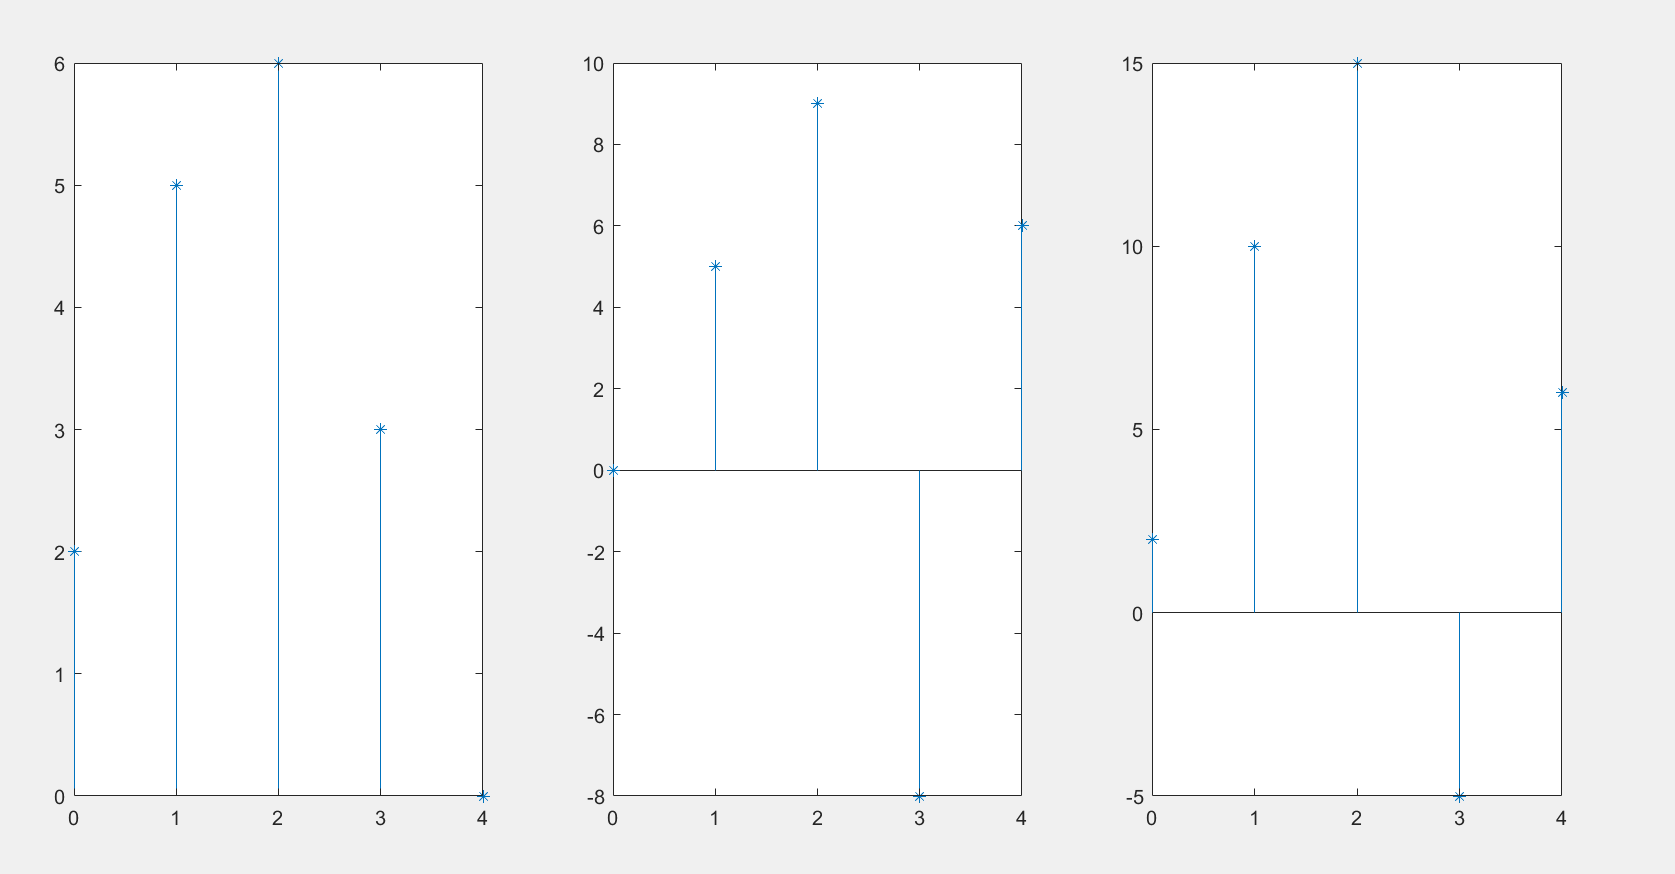
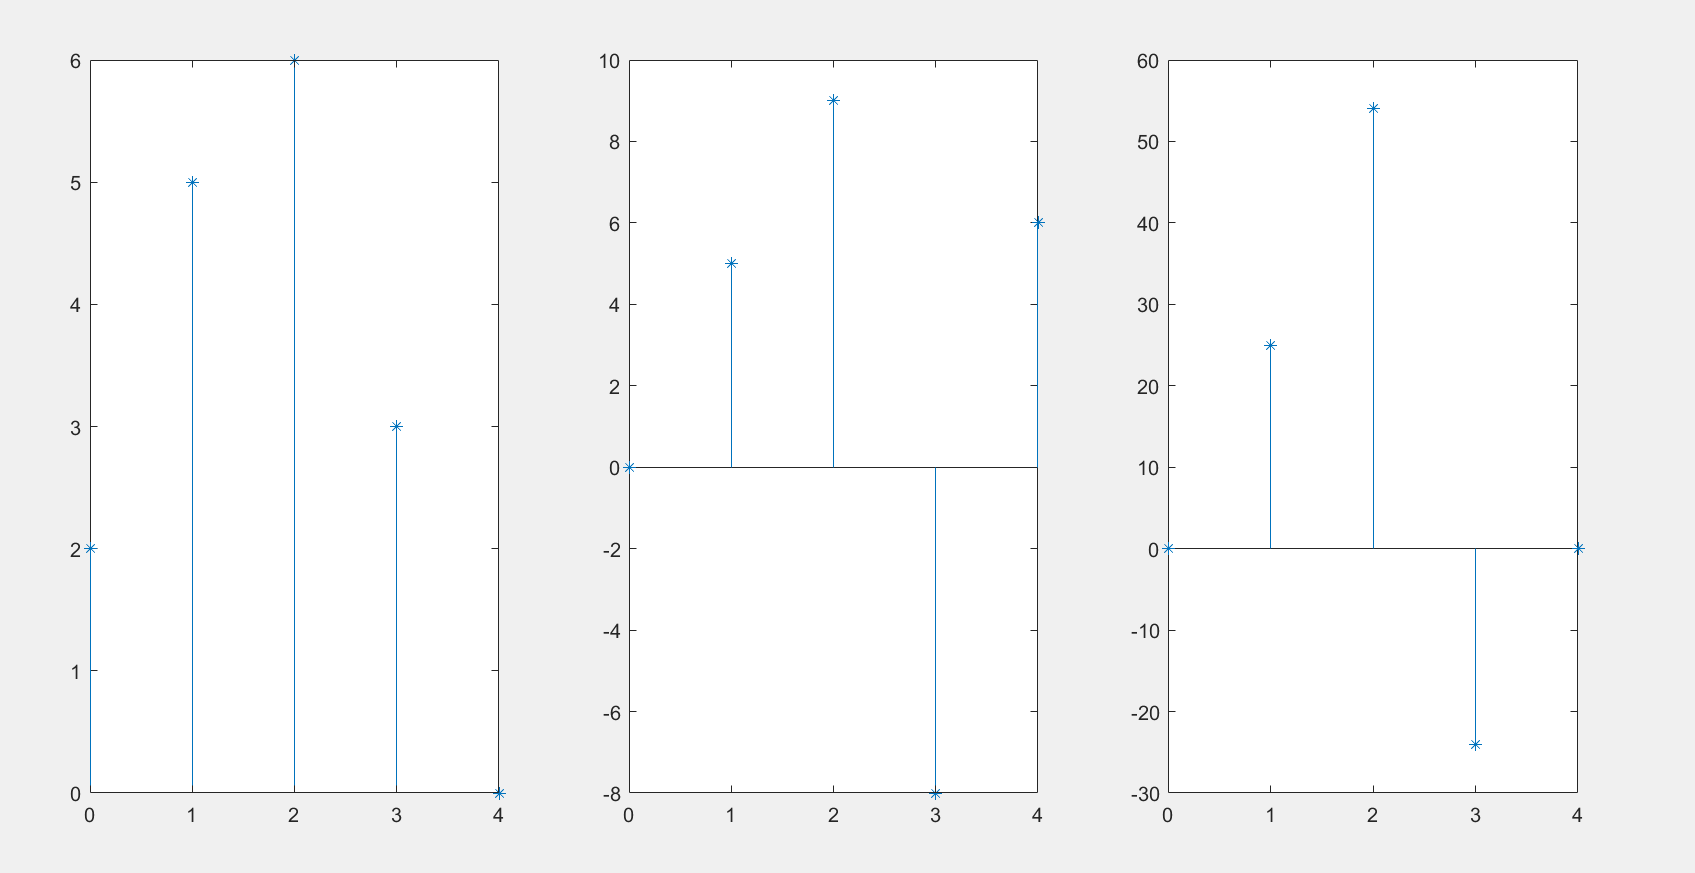
Added proper multiplictation Code

diff --git a/EXP2/Multiplictation/multiplication.m b/EXP2/Multiplictation/multiplication.m
@@ -1,13 +1,24 @@
-function add(x1, n1, x2,n2)
-    m1=(min(min(n1),min(n2)));
-    m2=(max(max(n1),max(n2)));
-    t= (m1:m2);
-    y1= [zeros(1,length(t))];
-    y2= [zeros(1,length(t))];
-    y1 (find((t>=min(n1)&t<=max(n1))==1))=x1;
-    y2(find((t>=min(n2)&t<=max(n2))==1))=x2;
-    y3=y1+y2;
-    subplot(1,3,1),stem(t,y1,'*');
-    subplot(1,3,2),stem(t,y2,'*');
-    subplot(1,3,3),stem(t,y3,'*');
+function multiplication(x1, n1, x2, n2)
+  
+    m1 = min(min(n1), min(n2));
+    m2 = max(max(n1), max(n2));
+    
+    
+    t = m1:m2;
+    
+
+    y1 = zeros(1, length(t));
+    y2 = zeros(1, length(t));
+    
+    
+    y1(ismember(t, n1)) = x1;
+    y2(ismember(t, n2)) = x2;
+    
+    
+    y3 = y1 .* y2;
+    
+   
+    subplot(1, 3, 1), stem(t, y1, '*');
+    subplot(1, 3, 2), stem(t, y2, '*');
+    subplot(1, 3, 3), stem(t, y3, '*');
 end

diff --git a/EXP2/Multiplictation/README.md b/EXP2/Multiplictation/README.md
@@ -4,12 +4,12 @@
 ## Command Window
 
 ```bash
-x1=[2 5 6 3];
-n1= [0 1 2 3];
-x2= [5 9 -8 6];
-n2= [1 2 3 4];
-add(x1,n1,x2,n2)
+x1 = [2 5 6 3];
+n1 = [0 1 2 3];
+x2 = [5 9 -8 6];
+n2 = [1 2 3 4];
+multiplication(x1, n1, x2, n2);
 ```
 
 ## Output 
-<img src='../img/multi1.png'>
+<img src='../img/multi.png'>
